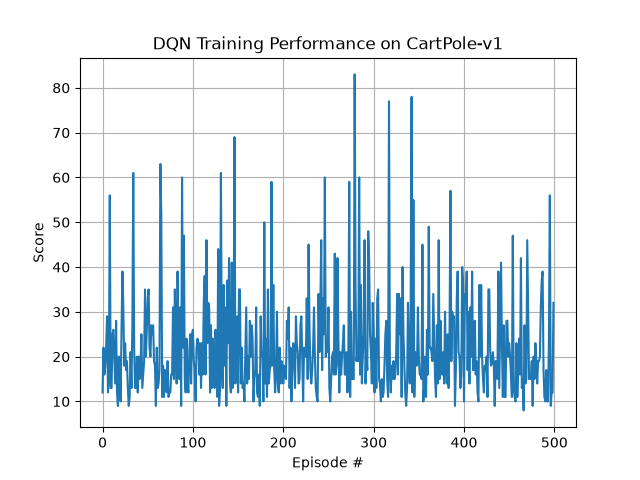
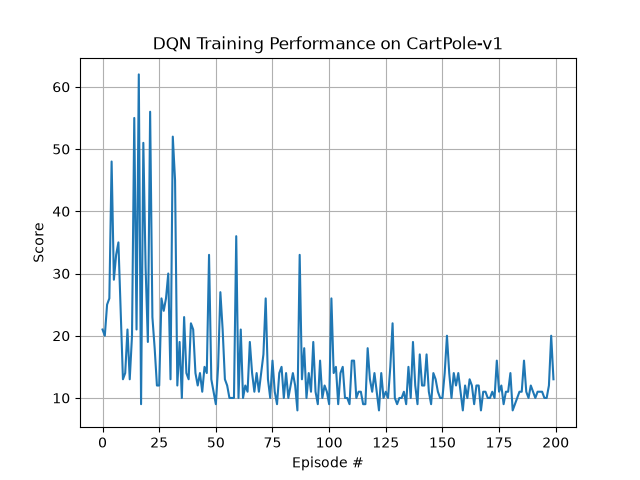
scores well, but unstable

diff --git a/agent.py b/agent.py
@@ -1,7 +1,6 @@
 import torch
 from q_network import QNeuralNetwork
 from replay_buffer import ReplayBuffer
-import math
 import random
 
 
@@ -12,6 +11,7 @@ class Agent ():
     def __init__ (self):
         self.model = QNeuralNetwork().to(device)
         self.target_model = QNeuralNetwork().to(device)
+        self.target_model.load_state_dict(self.model.state_dict())
         self.replay_buffer = ReplayBuffer(100000)
         self.sample_size = 64
         self.criterion = torch.nn.MSELoss()
@@ -19,13 +19,15 @@ class Agent ():
         self.epsilon_start = 1.0
         self.epsilon_end = 0.01
         self.epsilon_decay = 0.995
+        self.epsilon = self.epsilon_start
         self.gamma = 0.99 # discount factor
+        self.tau = 1e-3 # soft replacement rate
         self.optimizer = torch.optim.Adam(self.model.parameters(), lr=self.learning_rate)
         #number of steps at which to learn
         self.t_step = 0
         self.learn_interval = 4
         # Represents C, the iteration interval to update the target network
-        self.refresh_interval = 30
+        self.refresh_interval = 50
         self.learning_iteration = 0
 
 
@@ -40,12 +42,14 @@ class Agent ():
     def act (self, observation):
         action = self.model.forward(torch.from_numpy(observation))
 
-        eps = self.epsilon_end + (self.epsilon_start - self.epsilon_end) * math.e ** (-self.epsilon_decay * self.t_step)
         # choose a random value with a probability epsilon
-        if random.random() > eps:
+        if random.random() < self.epsilon:
             return random.choice([0, 1])
-            
+
         return torch.argmax(action).item()
+
+    def decay_epsilon (self):
+        self.epsilon = max(self.epsilon_end, self.epsilon * self.epsilon_decay)
 
 
     def learn (self):
@@ -63,12 +67,15 @@ class Agent ():
 
         loss = self.criterion(Q_expected, Q_targets)
         # need to somehow grab all samples at a time, find the target and actual value, calculate loss, 
-        #         self.optimizer.zero_grad() #clear old gradients
+        self.optimizer.zero_grad() #clear old gradients
         loss.backward()
         self.optimizer.step()
 
-        if self.learning_iteration % self.refresh_interval == 0:
-            self.update()
+
+        self.soft_update(self.model, self.target_model)
+
+        # if self.learning_iteration % self.refresh_interval == 0:
+        #     self.update()
         self.learning_iteration += 1 
 
 
@@ -76,3 +83,17 @@ class Agent ():
     # Run every C cycles
     def update (self):
         self.target_model.load_state_dict(self.model.state_dict())
+
+
+    def soft_update(self, local_model, target_model):
+        """Soft update model parameters.
+        θ_target = τ*θ_local + (1 - τ)*θ_target
+
+        Params
+        ======
+            local_model (PyTorch model): weights will be copied from
+            target_model (PyTorch model): weights will be copied to
+            tau (float): interpolation parameter
+        """
+        for target_param, local_param in zip(target_model.parameters(), local_model.parameters()):
+            target_param.data.copy_(self.tau*local_param.data + (1.0-self.tau)*target_param.data)

diff --git a/replay_buffer.py b/replay_buffer.py
@@ -21,7 +21,7 @@ class ReplayBuffer ():
         self.n_experiences = n_experiences
 
         self.states = np.zeros((n_experiences, 4), np.float32)
-        self.actions = np.zeros((n_experiences, 2), np.float32)
+        self.actions = np.zeros((n_experiences, 1), np.float32)
         self.next_states = np.zeros((n_experiences, 4), np.float32)
         self.rewards = np.zeros((n_experiences, 1), np.float32)
         self.dones = np.zeros((n_experiences, 1), np.int8)
@@ -33,16 +33,11 @@ class ReplayBuffer ():
 
     # Take in an experience in the form ()
     def add_experience(self, state, action: float, next_state, reward: float, done: bool) -> None:
-        action_array = [
-            0 if action == 0 else 1,
-            1 if action == 0 else 0
-        ]
-
-        np.insert(self.states, self.index, state)
-        np.insert(self.actions, self.index, action_array)
-        np.insert(self.next_states, self.index, next_state)
-        np.insert(self.rewards, self.index, reward)
-        np.insert(self.dones, self.index, done)
+        self.states[self.index] = state
+        self.actions[self.index] = action
+        self.next_states[self.index] = next_state
+        self.rewards[self.index] = reward
+        self.dones[self.index] = done
 
         if self.index == self.n_experiences - 1:
             self.buffer_full = True

diff --git a/training_loop.py b/training_loop.py
@@ -10,9 +10,7 @@ class TrainAgent ():
         # ------- Hyperparameters -------
         #maximum number of steps
         self.max_t = 1000
-        self.n_episodes = 500
-        self.discount = 0.99
-        
+        self.n_episodes = 5000
         self.agent = Agent()
 
     def training_loop (self):
@@ -25,9 +23,7 @@ class TrainAgent ():
             total_reward = 0
             done = False
             while not done:
-
                 action = self.agent.act(state)
-                #print("action: ", action.item())
                 new_state, reward, terminated, truncated, info = env.step(action)
                 done = terminated or truncated
 
@@ -38,6 +34,8 @@ class TrainAgent ():
                 state = new_state
                 total_reward += reward
             
+            self.agent.decay_epsilon()
+
             print("score: ", total_reward)
             scores.append(total_reward)
 
